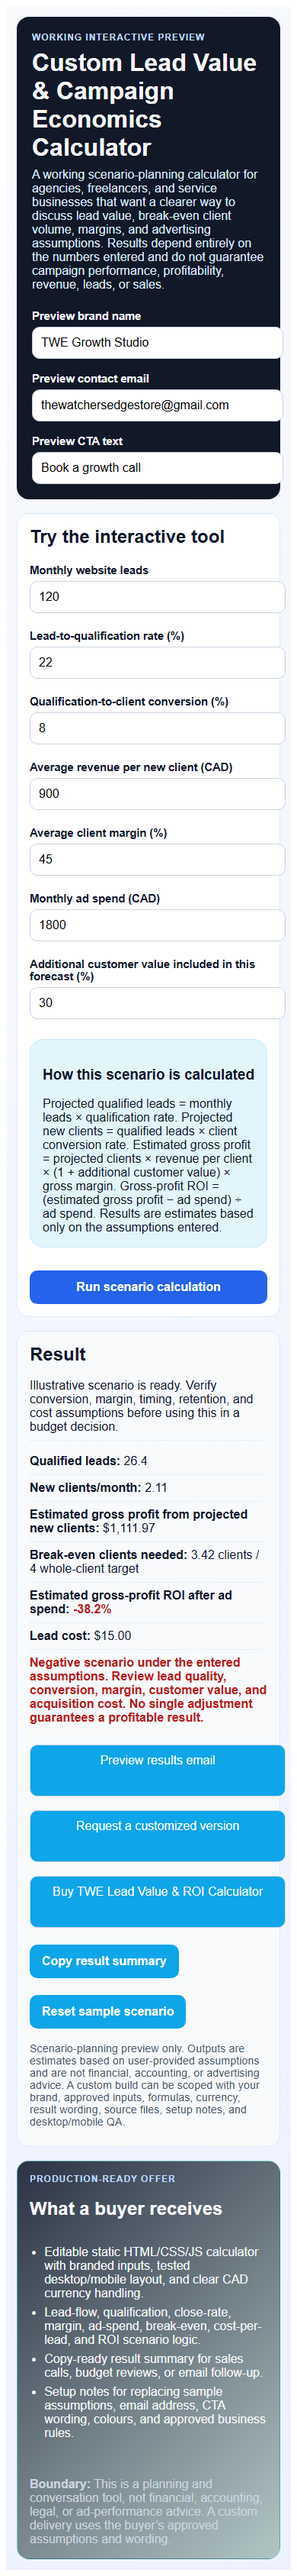
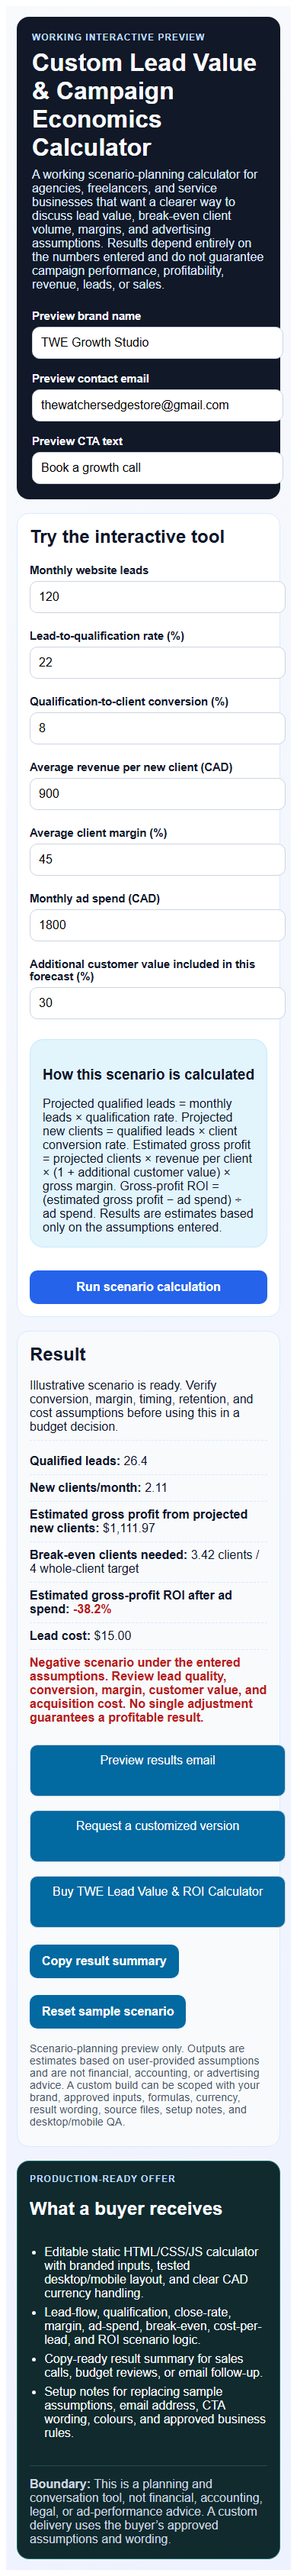
Finish accessibility and optimize portfolio media

Changed region(s): [[0.0308, 0.8402, 0.9538, 0.9959], [0.0923, 0.6535, 0.9846, 0.8091]]

diff --git a/templates/landing-page/index.html b/templates/landing-page/index.html
@@ -3,7 +3,9 @@
 <head>
   <meta charset="UTF-8" />
   <meta name="viewport" content="width=device-width, initial-scale=1.0" />
+  <meta name="description" content="Try three working TWE calculators and scorecards, then review the matching downloadable Gumroad products or request a scoped custom version." />
   <title>Gig Factory | Live Mini-Site Demos</title>
+  <link rel="icon" href="assets/twe-tools-favicon.svg" type="image/svg+xml" />
   <link rel="stylesheet" href="styles.css" />
 </head>
 <body>
@@ -29,11 +31,14 @@
       
         <article class="gig-card">
           <a class="screenshot-link" href="gigs/lead-value-roi-calculator/">
-            <img src="assets/screenshots/gigs/lead-value-roi-calculator-desktop-output.png" alt="Actual desktop screenshot of Lead Value & ROI Calculator" />
+            <picture>
+              <source srcset="assets/screenshots/gigs/lead-value-roi-calculator-card.webp" type="image/webp" />
+              <img src="assets/screenshots/gigs/lead-value-roi-calculator-desktop-output.png" alt="Actual desktop screenshot of Lead Value & ROI Calculator" loading="lazy" decoding="async" width="720" height="1188" />
+            </picture>
           </a>
           <div class="gig-card-body">
             <p class="eyebrow">Lead value scenario planning</p>
-            <h3>Lead Value & ROI Calculator</h3>
+            <h2>Lead Value & ROI Calculator</h2>
             <p>A scenario-planning calculator for agencies, consultants, and service businesses that want clearer lead-value and ad-assumption conversations without guaranteed outcomes.</p>
             <div class="card-actions">
               <a class="cta" href="gigs/lead-value-roi-calculator/">Open working preview</a>
@@ -44,11 +49,14 @@
         </article>
         <article class="gig-card">
           <a class="screenshot-link" href="gigs/local-service-quote-calculator/">
-            <img src="assets/screenshots/gigs/local-service-quote-calculator-desktop-output.png" alt="Actual desktop screenshot of Custom Service Estimate & Intake Calculator" />
+            <picture>
+              <source srcset="assets/screenshots/gigs/local-service-quote-calculator-card.webp" type="image/webp" />
+              <img src="assets/screenshots/gigs/local-service-quote-calculator-desktop-output.png" alt="Actual desktop screenshot of Custom Service Estimate & Intake Calculator" loading="lazy" decoding="async" width="720" height="1121" />
+            </picture>
           </a>
           <div class="gig-card-body">
             <p class="eyebrow">Fast quoting for service businesses</p>
-            <h3>Custom Service Estimate & Intake Calculator</h3>
+            <h2>Custom Service Estimate & Intake Calculator</h2>
             <p>A planning-estimate preview for one approved service niche, with buyer-supplied rates, modifiers, exclusions, and non-binding estimate language.</p>
             <div class="card-actions">
               <a class="cta" href="gigs/local-service-quote-calculator/">Open working preview</a>
@@ -59,11 +67,14 @@
         </article>
         <article class="gig-card">
           <a class="screenshot-link" href="gigs/website-audit-scorecard/">
-            <img src="assets/screenshots/gigs/website-audit-scorecard-desktop-output.png" alt="Actual desktop screenshot of Website Audit Scorecard" />
+            <picture>
+              <source srcset="assets/screenshots/gigs/website-audit-scorecard-card.webp" type="image/webp" />
+              <img src="assets/screenshots/gigs/website-audit-scorecard-desktop-output.png" alt="Actual desktop screenshot of Website Audit Scorecard" loading="lazy" decoding="async" width="720" height="1296" />
+            </picture>
           </a>
           <div class="gig-card-body">
             <p class="eyebrow">Client-ready diagnostic offer</p>
-            <h3>Website Audit Scorecard</h3>
+            <h2>Website Audit Scorecard</h2>
             <p>A manual scorecard preview that helps consultants structure a first-pass conversation about offer clarity, conversion flow, trust, content, and tracking.</p>
             <div class="card-actions">
               <a class="cta" href="gigs/website-audit-scorecard/">Open working preview</a>

diff --git a/gigs/local-service-quote-calculator/index.html b/gigs/local-service-quote-calculator/index.html
@@ -15,7 +15,7 @@
           A configurable non-binding estimate and intake tool built around one service provider’s written and approved services, labour rules, add-ons, travel rules, deposits, completion windows, and follow-up process. The sample configuration below is illustrative and must be replaced and verified before customer launch.
         </p>
 
-        <div class="brand-panel" aria-label="Brand and copy settings">
+        <div class="brand-panel" role="group" aria-label="Brand and copy settings">
           <h2>Preview settings</h2>
           <div class="brand-grid">
             <label>
@@ -40,7 +40,7 @@
           <h2>Try the interactive tool</h2>
           <p class="panel-subhead">Adjust the sample inputs. A production build uses only the service provider’s written and approved pricing rules.</p>
 
-          <div class="intake-grid" aria-label="Customer and job intake fields">
+          <div class="intake-grid" role="group" aria-label="Customer and job intake fields">
             <label>
               Customer name
               <input id="customer-name" type="text" value="Sample Customer" />

diff --git a/templates/landing-page/gigs/local-service-quote-calculator/index.html b/templates/landing-page/gigs/local-service-quote-calculator/index.html
@@ -15,7 +15,7 @@
           A configurable non-binding estimate and intake tool built around one service provider’s written and approved services, labour rules, add-ons, travel rules, deposits, completion windows, and follow-up process. The sample configuration below is illustrative and must be replaced and verified before customer launch.
         </p>
 
-        <div class="brand-panel" aria-label="Brand and copy settings">
+        <div class="brand-panel" role="group" aria-label="Brand and copy settings">
           <h2>Preview settings</h2>
           <div class="brand-grid">
             <label>
@@ -40,7 +40,7 @@
           <h2>Try the interactive tool</h2>
           <p class="panel-subhead">Adjust the sample inputs. A production build uses only the service provider’s written and approved pricing rules.</p>
 
-          <div class="intake-grid" aria-label="Customer and job intake fields">
+          <div class="intake-grid" role="group" aria-label="Customer and job intake fields">
             <label>
               Customer name
               <input id="customer-name" type="text" value="Sample Customer" />

diff --git a/gigs/local-service-quote-calculator/styles.css b/gigs/local-service-quote-calculator/styles.css
@@ -26,7 +26,7 @@ body {
 }
 
 .hero {
-  background: linear-gradient(135deg, #1e3a8a 0%, #4f46e5 52%, #06b6d4 100%);
+  background: linear-gradient(135deg, #1e3a8a 0%, #3730a3 52%, #155e75 100%);
   color: #f8fafc;
   border-radius: 16px;
   padding: 22px;
@@ -136,9 +136,13 @@ button {
 
 .panel-subhead,
 .muted,
-.fine-print,
-.brand-note {
+.fine-print {
   color: var(--muted);
+  font-size: 0.92rem;
+}
+
+.brand-note {
+  color: #f8fafc;
   font-size: 0.92rem;
 }
 
@@ -163,7 +167,7 @@ button {
   text-align: center;
   text-decoration: none;
   color: white;
-  background: linear-gradient(90deg, #0ea5e9, #0284c7);
+  background: #0369a1;
   border-radius: 10px;
   padding: 12px;
   font-weight: 700;
@@ -184,7 +188,7 @@ button {
 .product-readiness {
   color: #f8fafc;
   border-color: rgba(45, 212, 191, 0.38) !important;
-  background: linear-gradient(135deg, rgba(15, 23, 42, 0.88), rgba(20, 83, 45, 0.28)) !important;
+  background: #102a2e !important;
 }
 
 .feature-list {

diff --git a/templates/landing-page/gigs/local-service-quote-calculator/styles.css b/templates/landing-page/gigs/local-service-quote-calculator/styles.css
@@ -26,7 +26,7 @@ body {
 }
 
 .hero {
-  background: linear-gradient(135deg, #1e3a8a 0%, #4f46e5 52%, #06b6d4 100%);
+  background: linear-gradient(135deg, #1e3a8a 0%, #3730a3 52%, #155e75 100%);
   color: #f8fafc;
   border-radius: 16px;
   padding: 22px;
@@ -136,9 +136,13 @@ button {
 
 .panel-subhead,
 .muted,
-.fine-print,
-.brand-note {
+.fine-print {
   color: var(--muted);
+  font-size: 0.92rem;
+}
+
+.brand-note {
+  color: #f8fafc;
   font-size: 0.92rem;
 }
 
@@ -163,7 +167,7 @@ button {
   text-align: center;
   text-decoration: none;
   color: white;
-  background: linear-gradient(90deg, #0ea5e9, #0284c7);
+  background: #0369a1;
   border-radius: 10px;
   padding: 12px;
   font-weight: 700;
@@ -184,7 +188,7 @@ button {
 .product-readiness {
   color: #f8fafc;
   border-color: rgba(45, 212, 191, 0.38) !important;
-  background: linear-gradient(135deg, rgba(15, 23, 42, 0.88), rgba(20, 83, 45, 0.28)) !important;
+  background: #102a2e !important;
 }
 
 .feature-list {

diff --git a/gigs/website-audit-scorecard/styles.css b/gigs/website-audit-scorecard/styles.css
@@ -24,7 +24,7 @@ body {
 }
 
 .hero {
-  background: linear-gradient(135deg, #2563eb, #0ea5e9);
+  background: linear-gradient(135deg, #1d4ed8, #0369a1);
   color: #f8fafc;
 }
 
@@ -106,7 +106,7 @@ button {
 .cta {
   display: inline-block;
   text-decoration: none;
-  background: #0ea5e9;
+  background: #0369a1;
   color: #fff;
   padding: 12px 14px;
   border-radius: 10px;
@@ -125,7 +125,7 @@ button {
 .product-readiness {
   color: #f8fafc;
   border-color: rgba(45, 212, 191, 0.38) !important;
-  background: linear-gradient(135deg, rgba(15, 23, 42, 0.88), rgba(20, 83, 45, 0.28)) !important;
+  background: #102a2e !important;
 }
 
 .feature-list {

diff --git a/templates/landing-page/gigs/website-audit-scorecard/styles.css b/templates/landing-page/gigs/website-audit-scorecard/styles.css
@@ -24,7 +24,7 @@ body {
 }
 
 .hero {
-  background: linear-gradient(135deg, #2563eb, #0ea5e9);
+  background: linear-gradient(135deg, #1d4ed8, #0369a1);
   color: #f8fafc;
 }
 
@@ -106,7 +106,7 @@ button {
 .cta {
   display: inline-block;
   text-decoration: none;
-  background: #0ea5e9;
+  background: #0369a1;
   color: #fff;
   padding: 12px 14px;
   border-radius: 10px;
@@ -125,7 +125,7 @@ button {
 .product-readiness {
   color: #f8fafc;
   border-color: rgba(45, 212, 191, 0.38) !important;
-  background: linear-gradient(135deg, rgba(15, 23, 42, 0.88), rgba(20, 83, 45, 0.28)) !important;
+  background: #102a2e !important;
 }
 
 .feature-list {

diff --git a/templates/landing-page/styles.css b/templates/landing-page/styles.css
@@ -59,11 +59,19 @@ textarea { min-height: 120px; resize: vertical; }
   padding: 0.75rem;
 }
 
+.screenshot-link picture {
+  display: block;
+  aspect-ratio: 16 / 10;
+  overflow: hidden;
+  border-radius: 16px;
+}
+
 .screenshot-link img {
   display: block;
   width: 100%;
-  height: auto;
-  border-radius: 16px;
+  height: 100%;
+  object-fit: cover;
+  object-position: top;
   border: 1px solid rgba(255,255,255,0.16);
 }
 
@@ -71,7 +79,7 @@ textarea { min-height: 120px; resize: vertical; }
   padding: 1.25rem;
 }
 
-.gig-card h3 {
+.gig-card h2 {
   margin: 0.25rem 0 0.75rem;
   font-size: clamp(1.35rem, 2vw, 1.8rem);
 }

diff --git a/gigs/website-audit-scorecard/index.html b/gigs/website-audit-scorecard/index.html
@@ -33,7 +33,7 @@
         <h2>Try the interactive tool</h2>
         <p class="muted">Manual scorecard only — not an automated SEO, accessibility, security, legal, privacy, or performance audit. Rate each area from 0 (not present) to 5 (excellent).</p>
 
-        <div class="context-grid" aria-label="Assessment context fields">
+        <div class="context-grid" role="group" aria-label="Assessment context fields">
           <label>
             Business or website name
             <input id="website-name" value="Sample Business Website" />

diff --git a/templates/landing-page/gigs/website-audit-scorecard/index.html b/templates/landing-page/gigs/website-audit-scorecard/index.html
@@ -33,7 +33,7 @@
         <h2>Try the interactive tool</h2>
         <p class="muted">Manual scorecard only — not an automated SEO, accessibility, security, legal, privacy, or performance audit. Rate each area from 0 (not present) to 5 (excellent).</p>
 
-        <div class="context-grid" aria-label="Assessment context fields">
+        <div class="context-grid" role="group" aria-label="Assessment context fields">
           <label>
             Business or website name
             <input id="website-name" value="Sample Business Website" />

diff --git a/gigs/lead-value-roi-calculator/styles.css b/gigs/lead-value-roi-calculator/styles.css
@@ -111,7 +111,7 @@ button {
   width: fit-content;
   text-decoration: none;
   color: white;
-  background: #0ea5e9;
+  background: #0369a1;
   padding: 11px 16px;
   margin-top: 8px;
 }
@@ -126,7 +126,7 @@ button {
 .product-readiness {
   color: #f8fafc;
   border-color: rgba(45, 212, 191, 0.38) !important;
-  background: linear-gradient(135deg, rgba(15, 23, 42, 0.88), rgba(20, 83, 45, 0.28)) !important;
+  background: #102a2e !important;
 }
 
 .feature-list {

diff --git a/templates/landing-page/gigs/lead-value-roi-calculator/styles.css b/templates/landing-page/gigs/lead-value-roi-calculator/styles.css
@@ -111,7 +111,7 @@ button {
   width: fit-content;
   text-decoration: none;
   color: white;
-  background: #0ea5e9;
+  background: #0369a1;
   padding: 11px 16px;
   margin-top: 8px;
 }
@@ -126,7 +126,7 @@ button {
 .product-readiness {
   color: #f8fafc;
   border-color: rgba(45, 212, 191, 0.38) !important;
-  background: linear-gradient(135deg, rgba(15, 23, 42, 0.88), rgba(20, 83, 45, 0.28)) !important;
+  background: #102a2e !important;
 }
 
 .feature-list {
